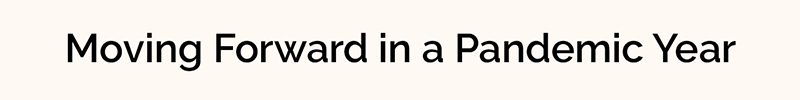
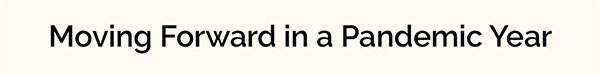
adds

diff --git a/newsletters/september-2020/index.html b/newsletters/september-2020/index.html
@@ -34,7 +34,7 @@
 				<!-- <th colspan="3" align="center" style="font-size: 2em"> -->
 
 				<tr>
-					<td width="50%" colspan="3"> 
+					<td colspan="3"> 
 					<img src="https://maine-art-gallery.github.io/newsletters/september-2020/pandemic.year.jpg">
 					</td>
 				</tr>
